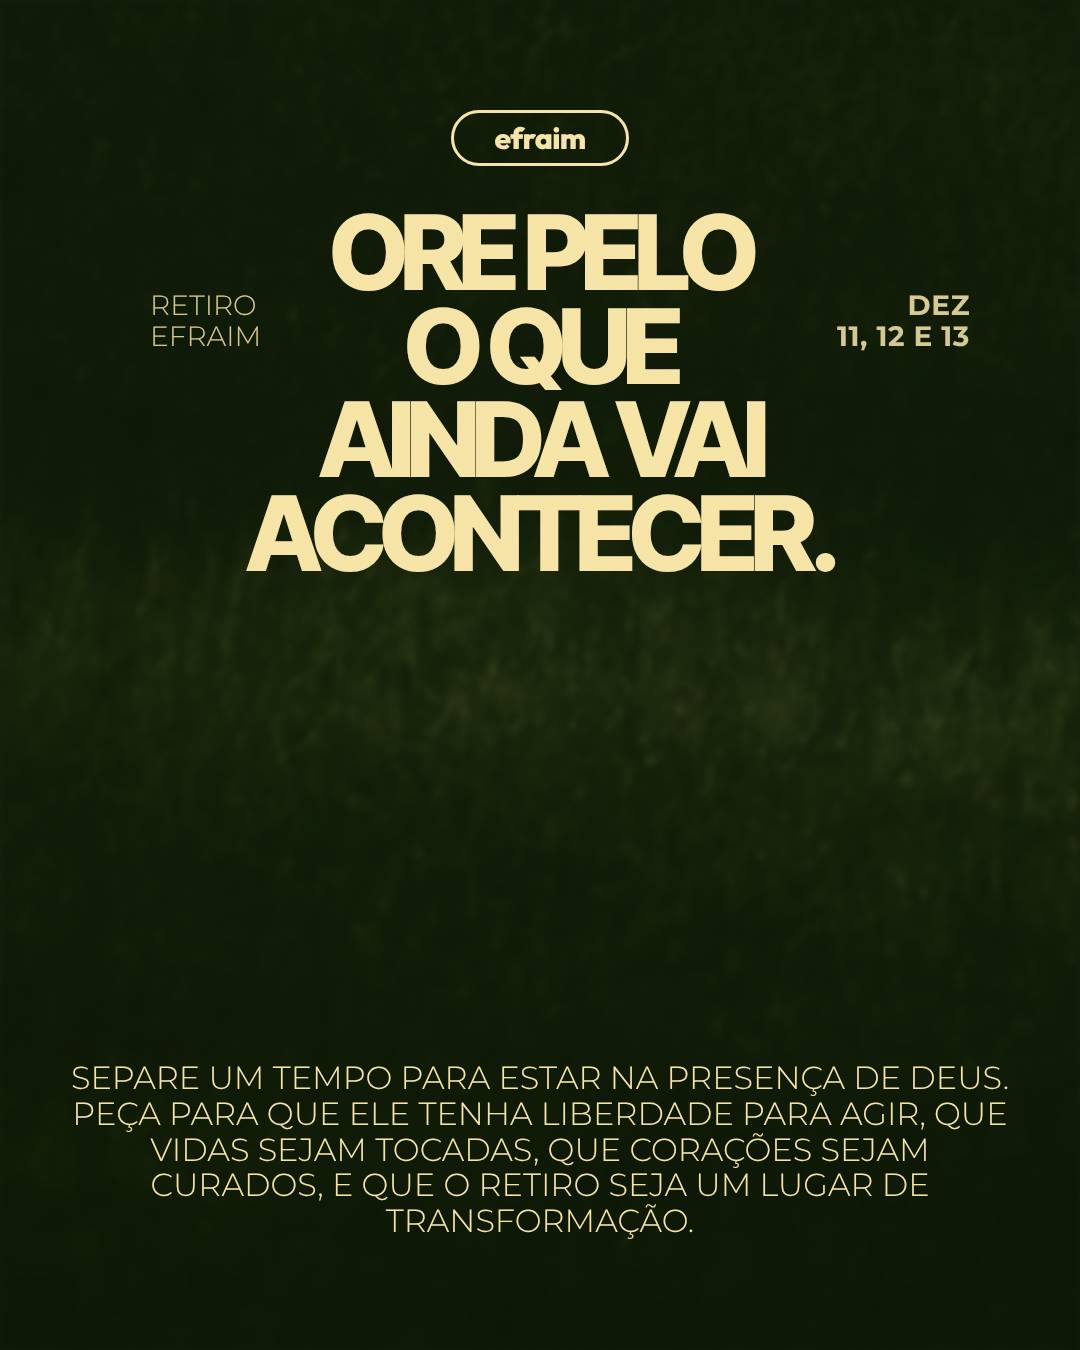
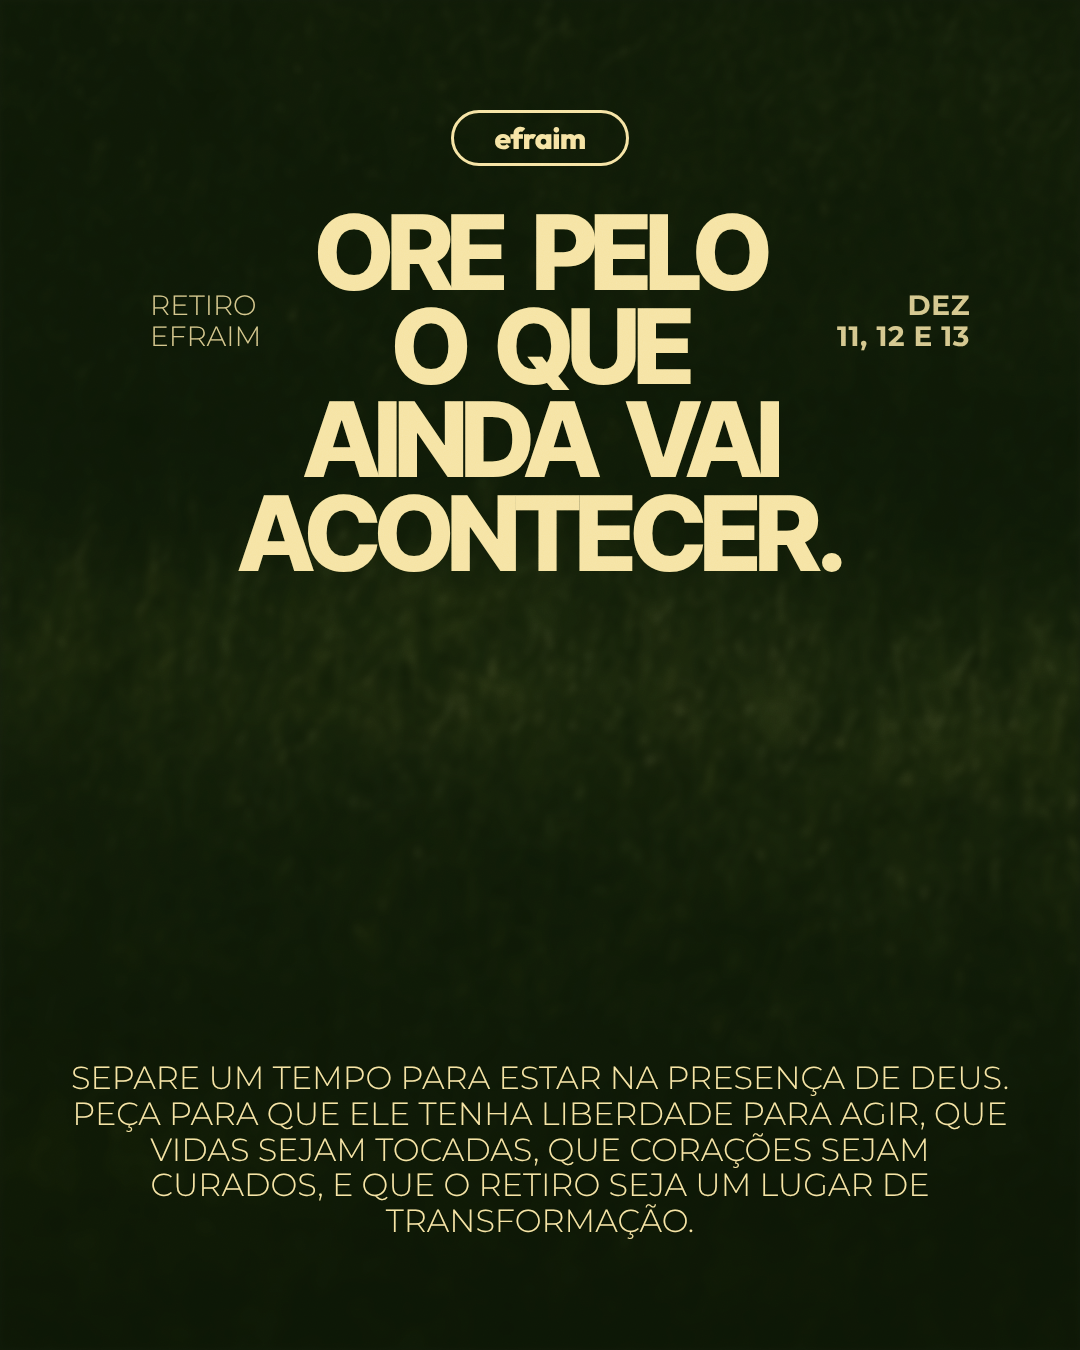
Carrossel: espaço entre palavras nos títulos apertados
Claude-Session: https://claude.ai/code/session_01LeUD47ZwT7dCEC6s1yGkTC

Changed region(s): [[0.2139, 0.1556, 0.7944, 0.4356]]

diff --git a/retiro-efraim/artes/carrossel-faltam-poucos-dias/estilo-cnct.css b/retiro-efraim/artes/carrossel-faltam-poucos-dias/estilo-cnct.css
@@ -1,7 +1,7 @@
 @import url("https://fonts.googleapis.com/css2?family=Inter+Tight:wght@700;800&family=Montserrat:wght@300;400;700&family=Outfit:wght@800&display=swap");
 @import url("../efraim.css");
 /* Estilo da referência: título ultra-apertado em caixa-alta, cantos finos, pílula com a marca. */
-.tt { margin: 0; font: 800 var(--s, 96px)/0.9 "Inter Tight", "Arial Black", sans-serif; letter-spacing: -0.075em; text-transform: uppercase; color: var(--manteiga) }
+.tt { margin: 0; font: 800 var(--s, 96px)/0.9 "Inter Tight", "Arial Black", sans-serif; letter-spacing: -0.06em; word-spacing: 0.16em; text-transform: uppercase; color: var(--manteiga) }
 .cnt { position: absolute; font: 300 34px/1.12 var(--f-titulo); text-transform: uppercase; color: var(--manteiga); opacity: .85 }
 .cnt b { font-weight: 700; letter-spacing: .02em }
 .pilula { display: inline-flex; align-items: center; justify-content: center; height: 56px; padding: 0 40px; border: 3px solid var(--manteiga); border-radius: 40px;

diff --git a/retiro-efraim/artes/carrossel-faltam-poucos-dias/05-criar-espaco.html b/retiro-efraim/artes/carrossel-faltam-poucos-dias/05-criar-espaco.html
@@ -13,7 +13,7 @@
     <img src="../../fundos/paisagem-feed.jpg" alt="">
     <div class="txt">
       <span class="pilula">efraim</span>
-      <p class="tt" style="--s:96px;text-shadow:0 2px 20px rgba(0,0,0,.25)">Preparar o seu coração é criar espaço para viver tudo aquilo que Ele preparou para esses dias</p>
+      <p class="tt" style="--s:84px;line-height:.95;text-shadow:0 2px 20px rgba(0,0,0,.25)">Preparar o seu<br>coração é<br>criar espaço<br>para viver tudo<br>aquilo que Ele<br>preparou para<br>esses dias</p>
       <p class="leve" style="font-size:30px">Aproximem-se de Deus e Ele se<br>aproximará de vocês. Tg 4:8</p>
     </div>
   </div></div>

diff --git a/retiro-efraim/artes/carrossel-faltam-poucos-dias/04-sua-passagem.html b/retiro-efraim/artes/carrossel-faltam-poucos-dias/04-sua-passagem.html
@@ -14,7 +14,7 @@
 .campos{display:grid;grid-template-columns:1fr 1fr;gap:26px 30px;padding:30px 34px}
 .campos div{display:grid;gap:6px}
 .campos small{font:500 16px/1 var(--f-titulo);letter-spacing:.22em;text-transform:uppercase;color:#7A6E55}
-.campos b{font:800 30px/1.05 "Inter Tight",sans-serif;letter-spacing:-0.04em;text-transform:uppercase;color:var(--pasto)}
+.campos b{font:800 30px/1.05 "Inter Tight",sans-serif;letter-spacing:-0.03em;word-spacing:.14em;text-transform:uppercase;color:var(--pasto)}
 .canhoto .ano{font:800 92px/1 "Outfit",sans-serif;color:var(--bordado);letter-spacing:-0.04em;transform:rotate(-90deg)}
 </style>
 <div class="arte grao">
